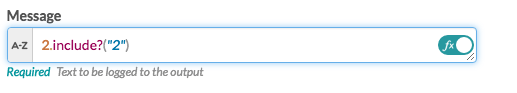
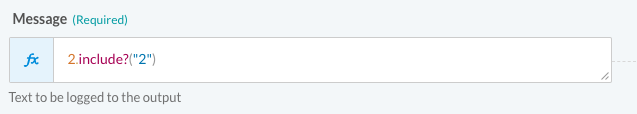
Screenshots update
Link edited: https://docs.workato.com/recipes/formula-errors.html

@alvinee @paguevarra

Changed region(s): [[0.0, 0.2796, 0.9594, 0.9247], [0.0, 0.1075, 0.2166, 0.2581], [0.9594, 0.5376, 1.0, 0.5591]]

diff --git a/recipes/formula-errors.md b/recipes/formula-errors.md
@@ -1,33 +1,34 @@
 ---
-title: Formula errors 
+title: Formula errors
 date: 2017-03-12 12:30:00 Z
 ---
 
 # Formula Errors
-When formula mode functions are used incorrectly, your Workato recipes will not work in the manner according to your intentions. 
+When formula mode functions are used incorrectly, your Workato recipes will not work in the manner according to your intentions.
 This section will showcase the most frequent occurances of formula errors and how to troubleshoot them.
 
 ## Types of Formula Errors
-There are two types of formula errors - Formula Compilation Error and Formula Runtime Error. 
+There are two types of formula errors - Formula Compilation Error and Formula Runtime Error.
 
 ### Formula Compilation Error
 Formula compilation error occurs when you have used formula mode within one of your fields in a recipe, but have most likely mispelled the formula function.
 
 #### Identifying the Error  
- You will identify that formula compilation error has occured when trying to to test or start the recipe. Workato prevents you from doing so and instead indicates that there is a formula error, and mentions which line in the recipe the error originates from. 
-In the example below, there is no such formula function as <b>.nosuchformula</b>, and the recipe is prevented from being started. 
+ You will identify that formula compilation error has occured when trying to to test or start the recipe. Workato prevents you from doing so and instead indicates that there is a formula error, and mentions which line in the recipe the error originates from.
+In the example below, there is no such formula function as <b>.nosuchformula</b>, and the recipe is prevented from being started.
 
 ![Formula Compilation Error](/assets/images/formula-errors/compilation_formula_error.png)
+![Formula Compilation Error](/assets/images/formula-errors/compilation2_formula_error.png)
 
 #### Troubleshooting the Error
-To troubleshoot and resolve the error, simply open the indicated lines, check and correct the formula functions used in the fields which are in formula mode. 
+To troubleshoot and resolve the error, simply open the indicated lines, check and correct the formula functions used in the fields which are in formula mode.
 In some cases, you might have accidentally turned on the formula mode field without intention, also resulting in the formula compilation error.
 
 ### Formula Runtime Error
-Formula runtime error is slightly trickier to troubleshoot. In these cases, the formula functions in the field are spelt correctly, but have most likely been used in an incorrect manner. We will look look at two examples below. 
+Formula runtime error is slightly trickier to troubleshoot. In these cases, the formula functions in the field are spelt correctly, but have most likely been used in an incorrect manner. We will look look at two examples below.
 
 #### Identifying the Error (Example 1: Formula received a nil value)
-Formula runtime errors are not as straightforward to identify as compilation errors. Instead, they are discovered to be present when a recipe error is encountered and when looking through the job report. 
+Formula runtime errors are not as straightforward to identify as compilation errors. Instead, they are discovered to be present when a recipe error is encountered and when looking through the job report.
 
 ![Formula Runtime Error](/assets/images/formula-errors/formula_error_gif_1.gif)
 Taking a look at the GIF above, the identified error is:
@@ -41,12 +42,12 @@ When heading the recipe step, the recipe field shows two data pills concatenated
 
 ![Formula Runtime Error](/assets/images/formula-errors/formula_error_gif_2.gif)
 
-To fix this case, we need to ensure that the formula field always return a value, or makes sure that the data pill that I used will always return a certain value. 
+To fix this case, we need to ensure that the formula field always return a value, or makes sure that the data pill that I used will always return a certain value.
 
 In short, the most important thing would be to figure out if the formula function is used correctly.
 
 #### Identifying the Error (Example 2: No Method Error)
-Again, looking through the job report will allow you to take a look at the recipe error. The no method error is another obvious keyword that highlights a formula error. 
+Again, looking through the job report will allow you to take a look at the recipe error. The no method error is another obvious keyword that highlights a formula error.
 
 ![Formula Error 3](/assets/images/formula-errors/formula_error_3.png)
 
@@ -55,7 +56,7 @@ Taking a look at the GIF above, the identified error is:
 
 #### Troubleshooting the Error
 
-To be able to solve this error, we need to learn more about the .include? formula function. There actually exists such a method in the Workato platform. .include? is useful to determine if a certain data pill contains a certain text. 
+To be able to solve this error, we need to learn more about the .include? formula function. There actually exists such a method in the Workato platform. .include? is useful to determine if a certain data pill contains a certain text.
 
 ![Formula Error 4](/assets/images/formula-errors/formula_error_4.png)
 

diff --git a/connectors/google-sheets/trigger-new-row.md b/connectors/google-sheets/trigger-new-row.md
@@ -24,6 +24,7 @@ Select the **New row in sheet** trigger.
 To configure the trigger, we need to select the spreadsheet and the actual sheet to process. Selecting a specific spreadsheet would generate your list of sheets within that spreadsheet.
 
 ![Blank Trigger](/assets/images/connectors/google-sheets/trigger-setup-blank.png)
+![Blank Trigger](/assets/images/connectors/google-sheets/trigger-setup2-blank.png)
 *Select the spreadsheet to monitor for new rows*
 
 Select the specific sheet to monitor for new rows.
@@ -46,7 +47,7 @@ Let's start the below recipe. Your new recipe should look as follows:
 ![Google spreadsheet sample](/assets/images/connectors/google-sheets/configured-recipe.jpg)
 *configured recipe with scheduler action for testing*
 
-In this case, the trigger picks up all 4 data lines in my Google sheet.
+In this case, the trigger picks up all 6 data lines in my Google sheet.
 
 ![Customized job report](/assets/images/connectors/google-sheets/updated-job-report.jpg)
 *Customized job report displaying selected information about the trigger event processed*
